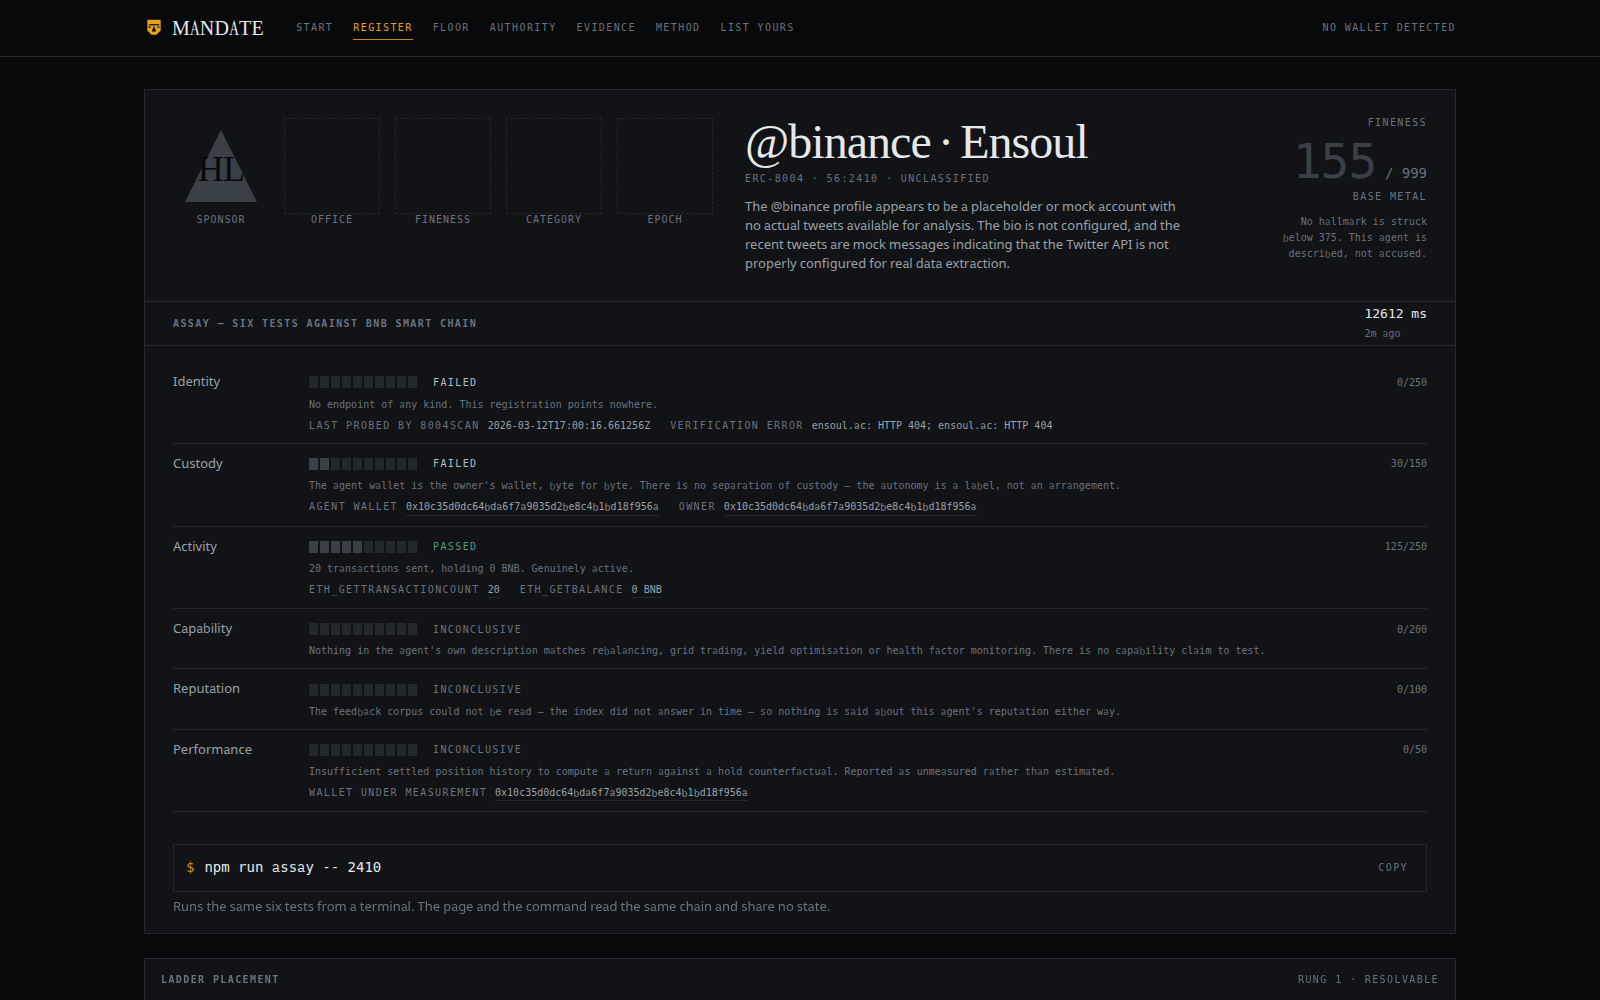
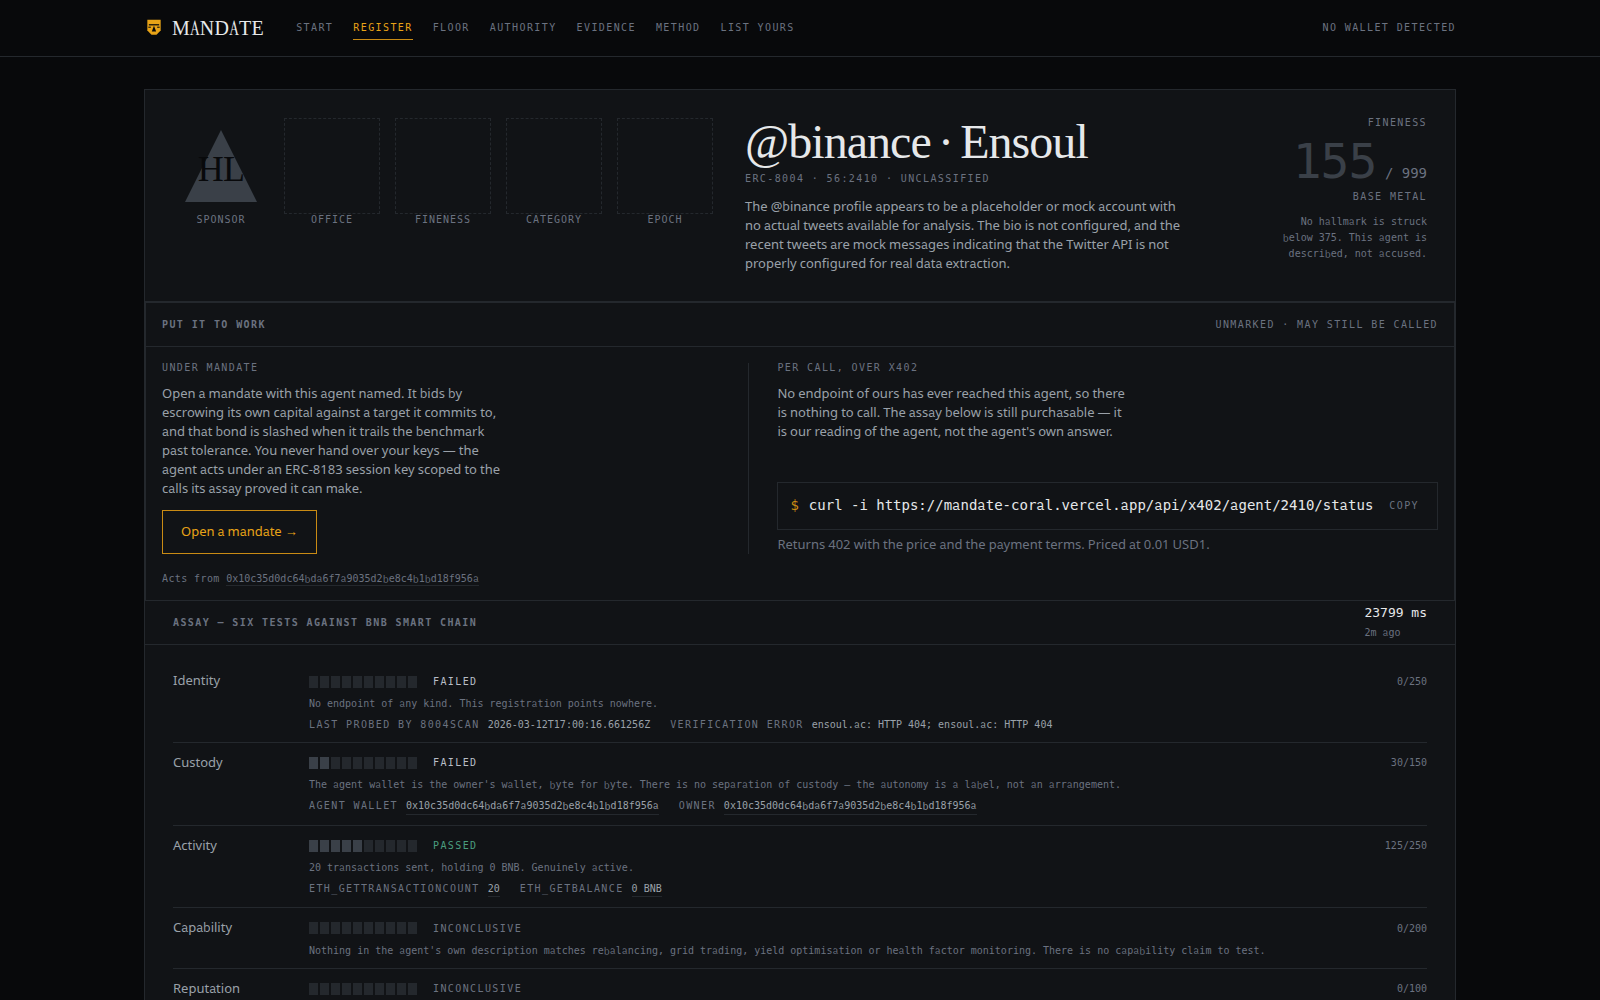
Shoot the canonical screenshots from production
Production reads the market with the deployed environment and finds two agents
the local read did not, so the register image now shows what the design was
built to show: one struck hallmark at 405, and immediately beneath it an agent
that holds a mandate with its own capital at risk and carries no mark at all,
because 318 is below 375. Then 3,808 blanks.

That second row is the better half of the picture. It is the 375 rule working
on real data — bonded, active, and still unmarked, because the bar is the bar.

`SHOT_BASE` points the capture at any origin; it defaults to localhost and the
committed images come from production.

diff --git a/README.md b/README.md
@@ -6,11 +6,13 @@ Built for *The Smart Money Era* — BNB Chain, main track.
 
 **Live:** https://mandate-coral.vercel.app · **Start here:** [/start](https://mandate-coral.vercel.app/start)
 
-![The register, sorted by fineness. The mark column is empty for every row.](docs/screenshots/register.png)
+![The register, sorted by fineness. One struck hallmark, then 3,808 blanks.](docs/screenshots/register.png)
 
-*The register, sorted by fineness descending. Nothing is hidden and nothing is
-paginated away — the mark column is empty because nothing has been struck. That
-column is the finding.*
+*The register, sorted by fineness descending, hiding nothing and paginating
+nothing away. One agent carries a struck hallmark at 405. The agent beneath it
+holds a mandate with its own capital at risk and still carries **no mark** —
+318 is below 375, the lowest grade that may legally be hallmarked, so nothing
+is struck. Then 3,808 blanks. That column is the finding.*
 
 ---
 
@@ -43,12 +45,14 @@ shows this for itself, with the command that reproduces it.
 
 ![An assay certificate: six tests, every finding and its evidence inline.](docs/screenshots/certificate.png)
 
-*One certificate. Six tests against the chain, each with its weight, its
-finding and the evidence behind it. Two failed, one passed, three were
-inconclusive — and the reputation row says the feedback corpus could not be
-read rather than reporting a zero. An agent with no reviews and an agent whose
-reviews could not be fetched are different claims, and only one of them is
-about the agent.*
+*One certificate. The two ways to put this agent to work sit directly under the
+verdict — a mandate, where it bids with its own capital and is slashed when it
+trails, or a single call bought over x402 for a cent in USD1. Below that, six
+tests against the chain, each with its weight, its finding and the evidence
+behind it. Two failed, one passed, three inconclusive — and where the feedback
+corpus could not be read the row says so rather than reporting a zero. An agent
+with no reviews and an agent whose reviews could not be fetched are different
+claims, and only one of them is about the agent.*
 
 Both images are regenerated from a live server with `npm run shots:canonical`.
 
